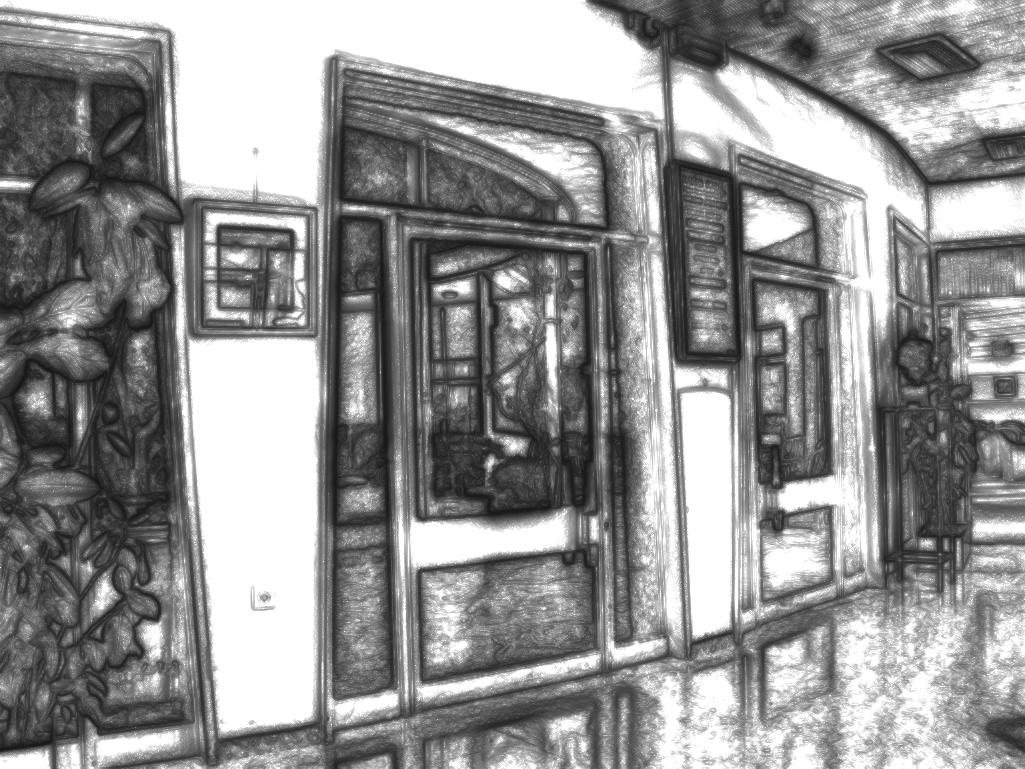
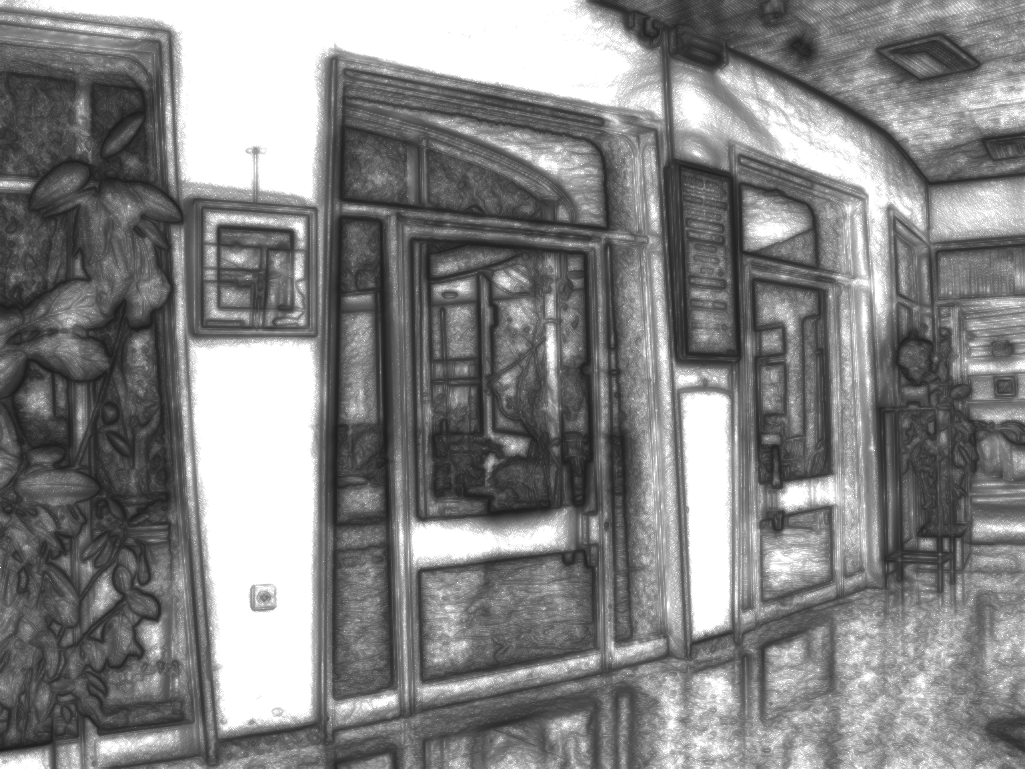
Finetune parameters and update results. Default hdrc.py parameters should produce the best results.

diff --git a/hdrc.py b/hdrc.py
@@ -207,8 +207,8 @@ def solve_poisson_equation_cuda(div_G, args):
     if args.method > 4:
         solve_args = [
             3, # v, w, f - cycle
-            5, # pre/post smoothing iterations
-            200, # coarsest level side length
+            20, # pre/post smoothing iterations
+            100, # coarsest level side length
             1000, # coarsest iterations
             5, # coarsest check frequency
             1e-4, # coarsest tolerance
@@ -229,12 +229,12 @@ if __name__ == "__main__":
     arg_parser.add_argument("--source", type=str, default="data/belgium.hdr", help="Source HDR radiance map path")
     arg_parser.add_argument("--output_folder", type=str, default="output", help="Output LDR image folder")
     arg_parser.add_argument("--save_att", action="store_true", help="Save gradient attenuation map")
-    arg_parser.add_argument("--alpha", type=float, default=0.18, help="Max \"small\" gradient")
-    arg_parser.add_argument("--beta", type=float, default=0.87, help="Attenuation factor for large gradients")
-    arg_parser.add_argument("--saturation", type=float, default=0.55, help="Color saturation of the resulting image")
+    arg_parser.add_argument("--alpha", type=float, default=0.10, help="Max \"small\" gradient")
+    arg_parser.add_argument("--beta", type=float, default=0.90, help="Attenuation factor for large gradients")
+    arg_parser.add_argument("--saturation", type=float, default=0.45, help="Color saturation of the resulting image")
     arg_parser.add_argument("--max_iterations", type=int, default=10000, help="Max number of iterations to run the Jacobi Poisson solver")
     arg_parser.add_argument("--check_frequency", type=int, default=1, help="Number of iterations to check if satisfy the tolerance")
-    arg_parser.add_argument("--tolerance", type=float, default=1e-4, help="Tolerance to stop iterating the Jacobi Poisson solver")
+    arg_parser.add_argument("--tolerance", type=float, default=3e-4, help="Tolerance to stop iterating the Jacobi Poisson solver")
     arg_parser.add_argument("--gamma", type=float, default=2.2, help="Global gamma tone mapping")
     arg_parser.add_argument("--cuda", action="store_true", help="Use CUDA optimized poisson solver")
     arg_parser.add_argument("--method", type=int, default=0, help="Poisson solver to use")
@@ -260,13 +260,13 @@ if __name__ == "__main__":
         grad_mag[grad_mag == 0.0] = 1e-6
         # Determine the gradient scaling factor by gradient magnitude
         scaling_factor_pyramid.append(calculate_scalings(grad_mag, args))
-
+    
     # Calculate the attenuation at the finest level (starting from the coarsest level).
     attenuation = scaling_factor_pyramid[-1]
     for level in range(len(scaling_factor_pyramid)-2, -1, -1):
         attenuation = cv2.resize(attenuation, (scaling_factor_pyramid[level].shape[1], scaling_factor_pyramid[level].shape[0])) * scaling_factor_pyramid[level]
-    attenuation = np.clip(attenuation, 0.0, 1.0)
     if args.save_att:
+        attenuation = np.clip(attenuation, 0.0, 1.0)
         cv2.imwrite(f"{args.output_folder}/{args.source.split('/')[-1][:-4]}_attenuation.png", (attenuation * 255.0).astype(np.uint8))
 
     # Calculate attenuated gradients, namely G(x, y)
@@ -288,7 +288,7 @@ if __name__ == "__main__":
         print(f"Duration: {duration} milliseconds")
     print(f"{iter_converge} iterations until convergence.")
 
-    I = np.exp(I_log)
+    I = normalize(np.exp(I_log))
 
     # Produce the LDR output
     output = np.zeros(hdr_rad_map_rgb.shape).astype(np.float32)
@@ -296,25 +296,27 @@ if __name__ == "__main__":
         output[:, :, c] = (hdr_rad_map_rgb[:, :, c] / hdr_rad_map_xyz[:, :, 1]) ** args.saturation * I
 
     # Rescale the output
-    # output_clip = (np.clip(output, 0.0, 1.0) * 255.0).astype(np.uint8)[:, :, ::-1]
+    output_clip = (np.clip(output, 0.0, 1.0) * 255.0).astype(np.uint8)[:, :, ::-1]
     # output_clip_gamma = (np.clip(np.power(output, 1.0 / args.gamma), 0.0, 1.0) * 255.0).astype(np.uint8)[:, :, ::-1]
     
-    output_norm = (normalize(output) * 255.0).astype(np.uint8)[:, :, ::-1]
-    output_norm_gamma = (normalize(np.power(output, 1.0 / args.gamma)) * 255.0).astype(np.uint8)[:, :, ::-1]
+    # output_norm = (normalize(output) * 255.0).astype(np.uint8)[:, :, ::-1]
+    # output_norm_gamma = (normalize(np.power(output, 1.0 / args.gamma)) * 255.0).astype(np.uint8)[:, :, ::-1]
 
     output_linear = (normalize(hdr_rad_map_rgb) * 255.0).astype(np.uint8)[:, :, ::-1]
     output_gamma = (normalize(np.power(hdr_rad_map_rgb, 1.0 / args.gamma)) * 255.0).astype(np.uint8)[:, :, ::-1]
 
     # save the output
-    # cv2.imwrite(f"{args.output_folder}/{args.method}_{args.source.split('/')[-1][:-4]}_ldr_clip.png", output_clip)
-    # cv2.imwrite(f"{args.output_folder}/{args.method}_{args.source.split('/')[-1][:-4]}_ldr_clip_gamma.png", output_clip_gamma)
 
     if args.cuda:
-        cv2.imwrite(f"{args.output_folder}/{args.method}_{args.source.split('/')[-1][:-4]}_ldr_norm.png", output_norm)
-        cv2.imwrite(f"{args.output_folder}/{args.method}_{args.source.split('/')[-1][:-4]}_ldr_norm_gamma.png", output_norm_gamma)
+        cv2.imwrite(f"{args.output_folder}/{args.method}_{args.source.split('/')[-1][:-4]}_ldr_clip.png", output_clip)
+        # cv2.imwrite(f"{args.output_folder}/{args.method}_{args.source.split('/')[-1][:-4]}_ldr_clip_gamma.png", output_clip_gamma)
+        # cv2.imwrite(f"{args.output_folder}/{args.method}_{args.source.split('/')[-1][:-4]}_ldr_norm.png", output_norm)
+        # cv2.imwrite(f"{args.output_folder}/{args.method}_{args.source.split('/')[-1][:-4]}_ldr_norm_gamma.png", output_norm_gamma)
     else:
-        cv2.imwrite(f"{args.output_folder}/0_py_{args.source.split('/')[-1][:-4]}_ldr_norm.png", output_norm)
-        cv2.imwrite(f"{args.output_folder}/0_py_{args.source.split('/')[-1][:-4]}_ldr_norm_gamma.png", output_norm_gamma)
+        cv2.imwrite(f"{args.output_folder}/0_py_{args.source.split('/')[-1][:-4]}_ldr_clip.png", output_clip)
+        # cv2.imwrite(f"{args.output_folder}/0_py_{args.source.split('/')[-1][:-4]}_ldr_clip_gamma.png", output_clip_gamma)
+        # cv2.imwrite(f"{args.output_folder}/0_py_{args.source.split('/')[-1][:-4]}_ldr_norm.png", output_norm)
+        # cv2.imwrite(f"{args.output_folder}/0_py_{args.source.split('/')[-1][:-4]}_ldr_norm_gamma.png", output_norm_gamma)
 
     cv2.imwrite(f"{args.output_folder}/{args.source.split('/')[-1][:-4]}_ldr_linear.png", output_linear)
     cv2.imwrite(f"{args.output_folder}/{args.source.split('/')[-1][:-4]}_ldr_gamma.png", output_gamma)

diff --git a/test.py b/test.py
@@ -5,20 +5,20 @@ if __name__ == "__main__":
 
     sep = "+" * 100
 
-    # 1. Sample function f(x, y) = sin(pi/100*(x+y))
-    # os.system("nvcc -O2 .\\poisson_solvers\\debug.cu .\\poisson_solvers\\debug_function2D.cu .\\poisson_solvers\\solvers.cu -o debug")
-    for i in range(5):
-        os.system(f"echo {sep}")
-        os.system(f".\\poisson_solvers\\debug.exe {i} 0 1 10000 500 0.00001")
-        os.system(f"nsys profile --output=.\\poisson_solvers\\gpu_profiling\\report_method_{i} .\\poisson_solvers\\debug {i} 5 20 10000 500 0.00001")
-    # for i in range(5, 8): 
-    #     # Because this sample function has the same frequency across the plane. Mutigrid methods won't actually help too much.
+    # # 1. Sample function f(x, y) = sin(pi/100*(x+y))
+    # # os.system("nvcc -O2 .\\poisson_solvers\\debug.cu .\\poisson_solvers\\debug_function2D.cu .\\poisson_solvers\\solvers.cu -o debug")
+    # for i in range(5):
     #     os.system(f"echo {sep}")
-    #     os.system(f".\\poisson_solvers\\debug.exe {i} 0 1 10 2 0.00001 4 10 300 10000 100 0.00001")
-    #     os.system(f"nsys profile --output=.\\poisson_solvers\\gpu_profiling\\report_method_{i} .\\poisson_solvers\\debug {i} 5 20 10 2 0.00001 4 10 300 10000 100 0.00001")
+    #     os.system(f".\\poisson_solvers\\debug.exe {i} 0 1 10000 500 0.00001")
+    #     os.system(f"nsys profile --output=.\\poisson_solvers\\gpu_profiling\\report_method_{i} .\\poisson_solvers\\debug {i} 5 20 10000 500 0.00001")
+    # # for i in range(5, 8): 
+    # #     # Because this sample function has the same frequency across the plane. Mutigrid methods won't actually help too much.
+    # #     os.system(f"echo {sep}")
+    # #     os.system(f".\\poisson_solvers\\debug.exe {i} 0 1 10 2 0.00001 4 10 300 10000 100 0.00001")
+    # #     os.system(f"nsys profile --output=.\\poisson_solvers\\gpu_profiling\\report_method_{i} .\\poisson_solvers\\debug {i} 5 20 10 2 0.00001 4 10 300 10000 100 0.00001")
 
     # 2. HDRC
-    for fp in ["data\\belgium.hdr", "data\\bigFogMap.hdr"]:
+    for fp in ["data/belgium.hdr", "data/bigFogMap.hdr"]:
         os.system(f"echo {sep}")
         os.system(f"echo {sep}")
         os.system(f"echo {sep}")

diff --git a/README.md b/README.md
@@ -1,13 +1,17 @@
 # HDRC
 Implementation of Gradient Domain HDR Compression in CUDA.
 
-Gamma vs Gradient Domain Compression
+Gamma vs Gradient Domain Compression (V-Cycle)
 
-<img src="output/bigFogMap_ldr_gamma.png" width="400"/>  <img src="output/7_bigFogMap_ldr_norm.png" width="400"/>
+<img src="output/belgium_ldr_gamma.png" width="400"/>  <img src="output/5_belgium_ldr_clip.png" width="400"/>
 
-Attenuation map of the Belgium House scene.
+<img src="output/bigFogMap_ldr_gamma.png" width="400"/>  <img src="output/5_bigFogMap_ldr_clip.png" width="400"/>
+
+Attenuation maps.
 
 <img src="./output/belgium_attenuation.png" alt="belgium_attenuation" width="400">
+
+<img src="./output/bigFogMap_attenuation.png" alt="belgium_attenuation" width="400">
 
 ## Poisson Solver
 Install the poisson solvers as a Python package (PyTorch is required)
@@ -47,10 +51,11 @@ measure: 1 for testing. 20 for measuring.
 ```
 
 ## Remarks
-1. The code is only tested on (H = 1200, W = 1600) and the two sample .hdr images.
-2. The code is tested on Windows 10, Python 3.7, CUDA Toolkits 11.8 with a NVIDIA 4060Ti GPU.
-3. Recovering the sample function (sin(pi/100*(x+y))) used for dubugging purpose may not benefit from using multigrid methods, because the grid elements have the same frequency. Multigrid methods would be beneficial if we have different frequencies of signals in the grid.
-4. Because sending the divG to the device (GPU) would be very time consuming, about 100 milliseconds, but solving the poisson equation only needs <10 milliseconds, and if we want to apply this code as part of a real-time tonemapper which tonemaps RAW HDR images to LDR images in real-time on GPU, the "divG" in that case would already be on GPU --> We ignore the large amount of time spent on sending divG to GPU in the Python part. Instead, we measure the time spent on solving the poisson equation in the pycall.cu file.
+1. The code is tested on Windows 10, Python 3.7, CUDA Toolkits 11.8 with a NVIDIA 4060Ti GPU.
+2. Recovering the sample function (sin(pi/100*(x+y))) used for dubugging purpose may not benefit from using multigrid methods, because the grid elements have the same frequency. Multigrid methods would be beneficial if we have different frequencies of signals in the grid.
+3. Because sending the divG to the device (GPU) would be very time consuming, about 100 milliseconds, but solving the poisson equation only needs <10 milliseconds, and if we want to apply this code as part of a real-time tonemapper which tonemaps RAW HDR images to LDR images in real-time on GPU, the "divG" in that case would already be on GPU --> We ignore the large amount of time spent on sending divG to GPU in the Python part. Instead, we measure the time spent on solving the poisson equation in the pycall.cu file.
+4. The default parameters in hdrc.py should produce the best result I could get for both the Belgium and bigFogMap scenes. I normalized the luminance after solving the poisson equation. This may be the reason why we can't see the large reflections on the car's windows in the bigFogMap scene, but not doing this would produce very bright result for the bigFogMap scene. More efforts should be made on finetuning the parameters and the way to get output.
+5. The multigrid methods may have better results if optimized on CPU.
 
 ## References
 Fattal, R., Lischinski, D., & Werman, M. (2023). _Gradient domain high dynamic range compression._ In Seminal Graphics Papers: Pushing the Boundaries, Volume 2 (pp. 671-678).
